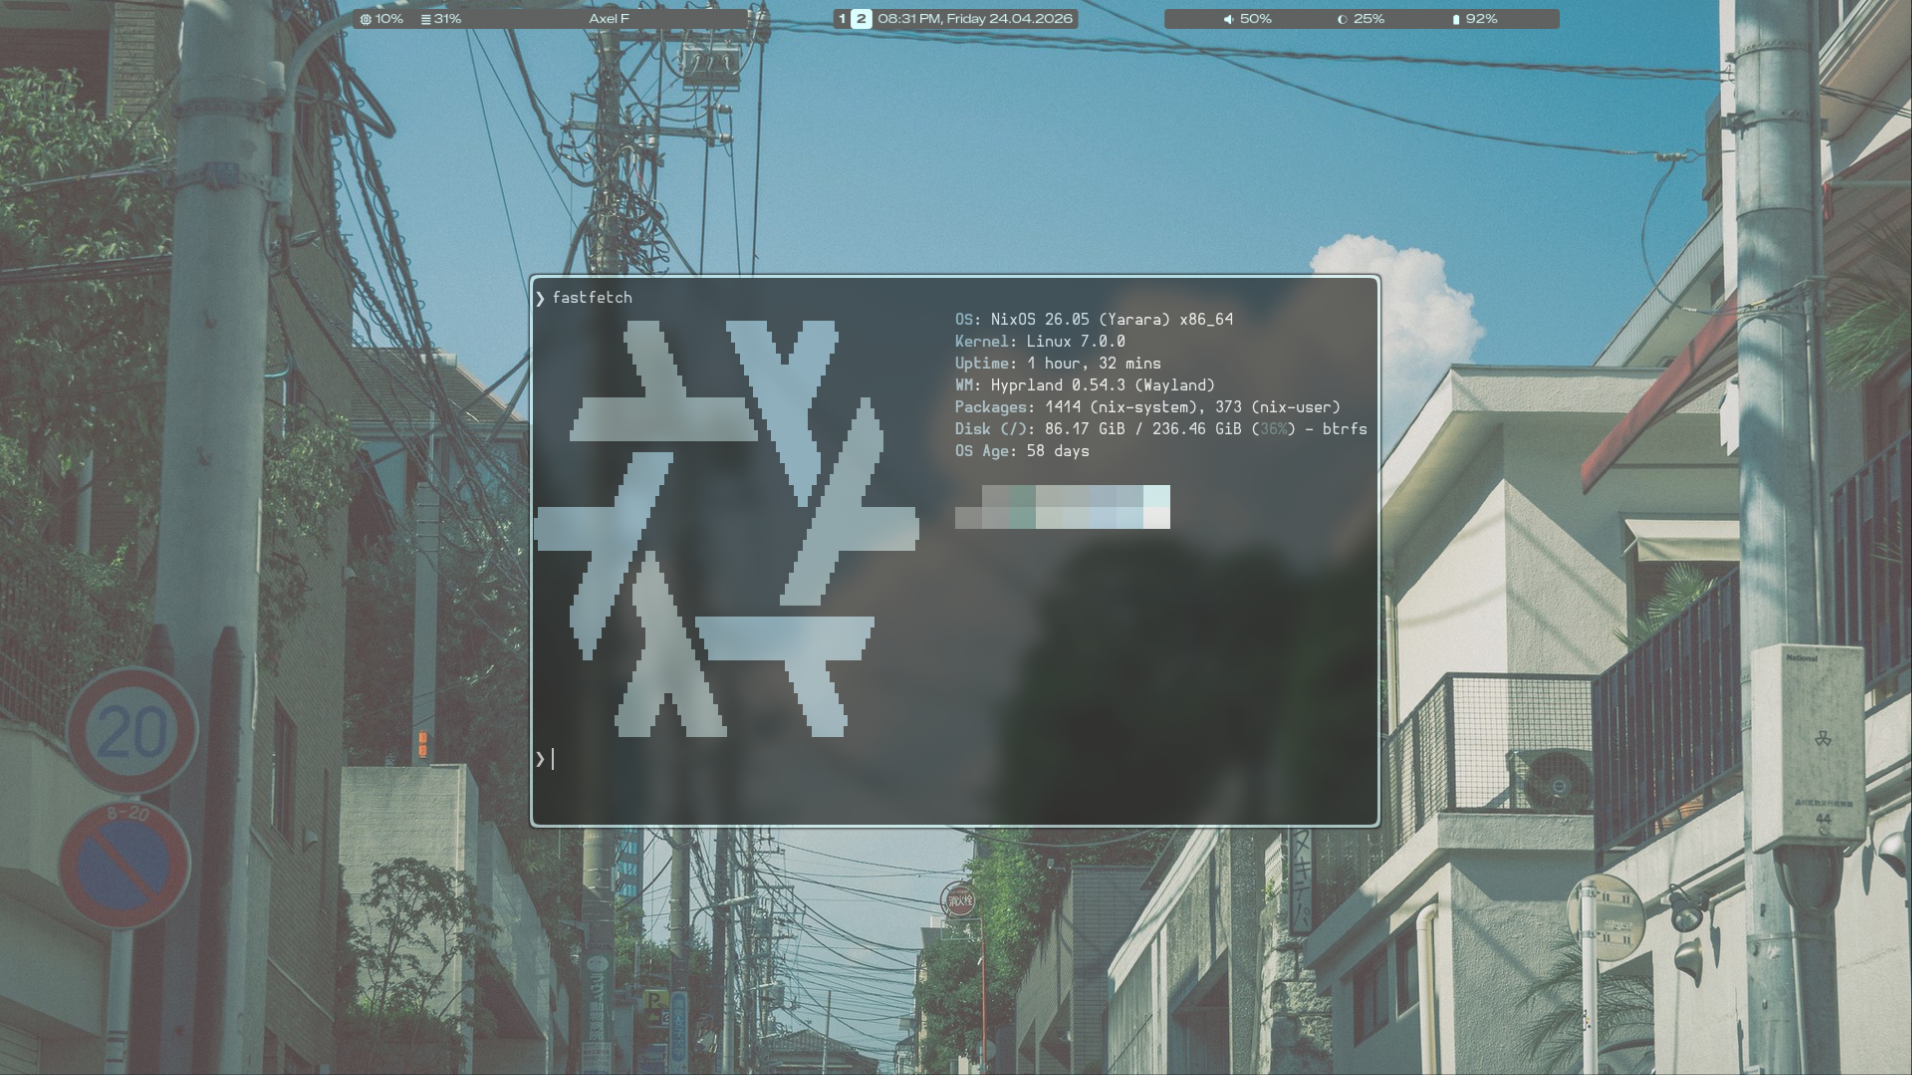
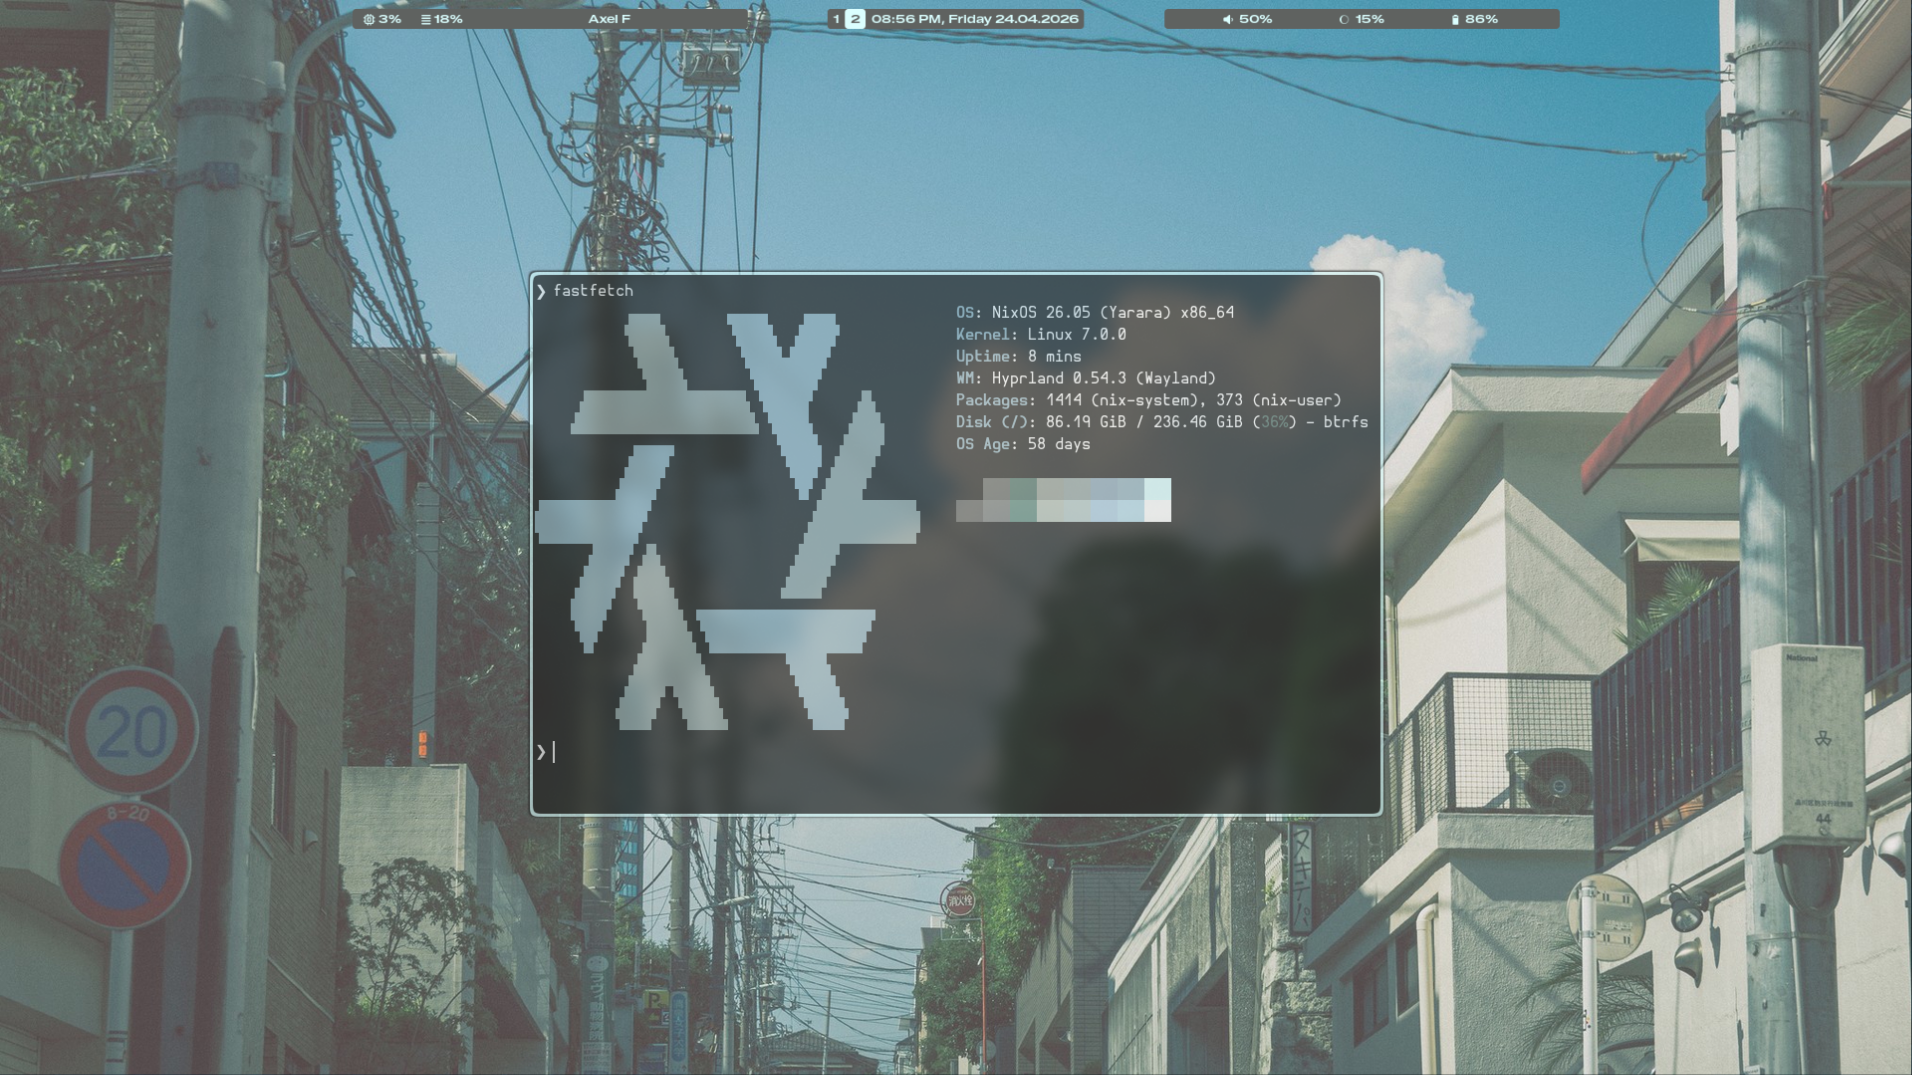
updated screenshots 2 & semibold waybar font

diff --git a/home-manager/waybar/style.css b/home-manager/waybar/style.css
@@ -2,7 +2,7 @@
 
 /* font declared */
 * {
-    font-family: "Zalando Sans Expanded";
+    font-family: "Zalando Sans Expanded SemiBold";
     font-size: 14px;
 }
 
